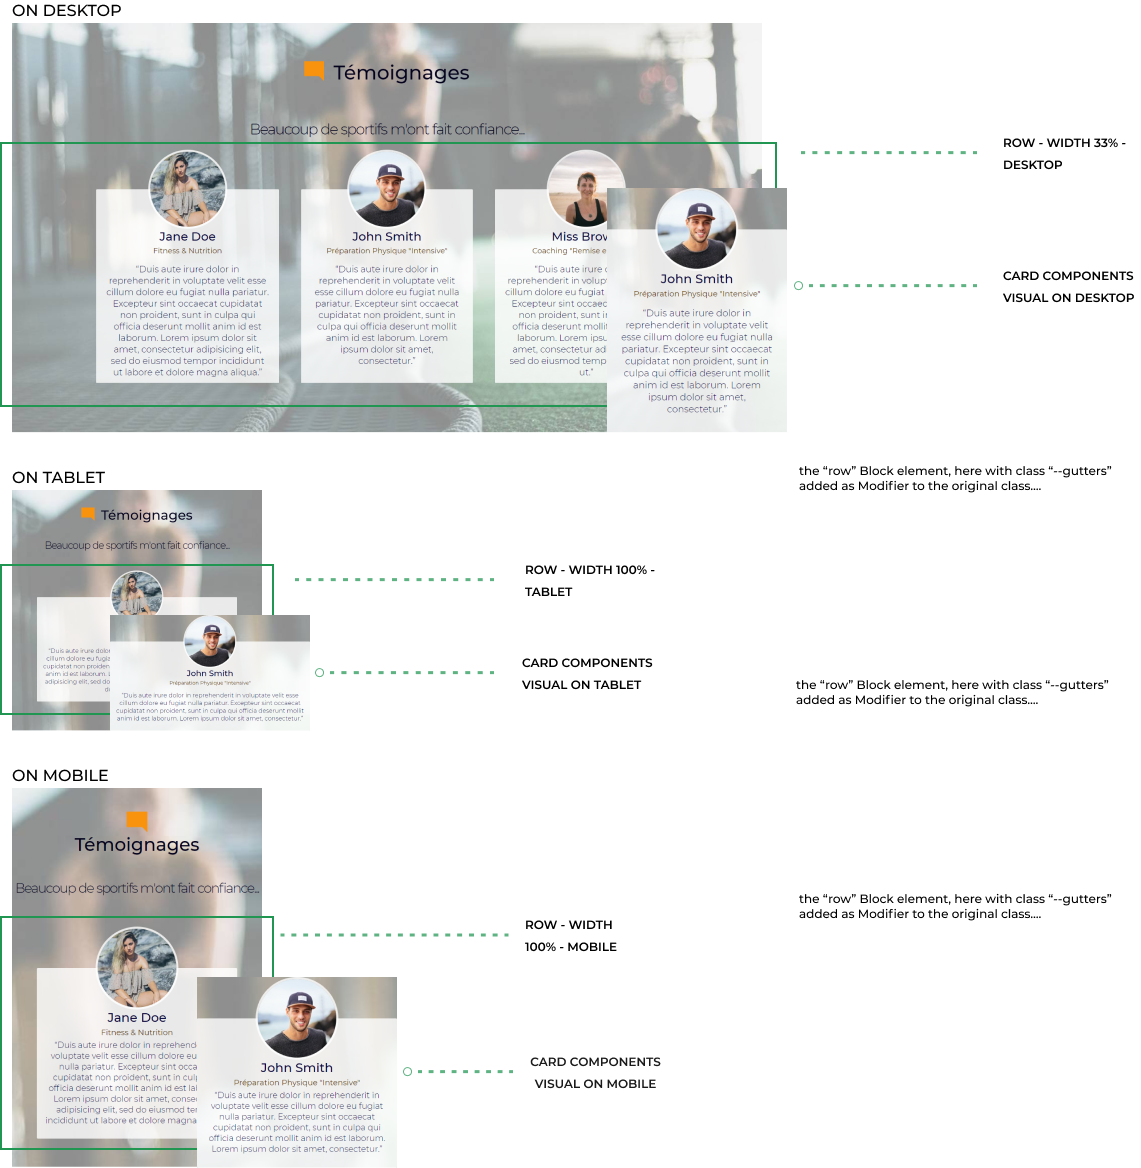
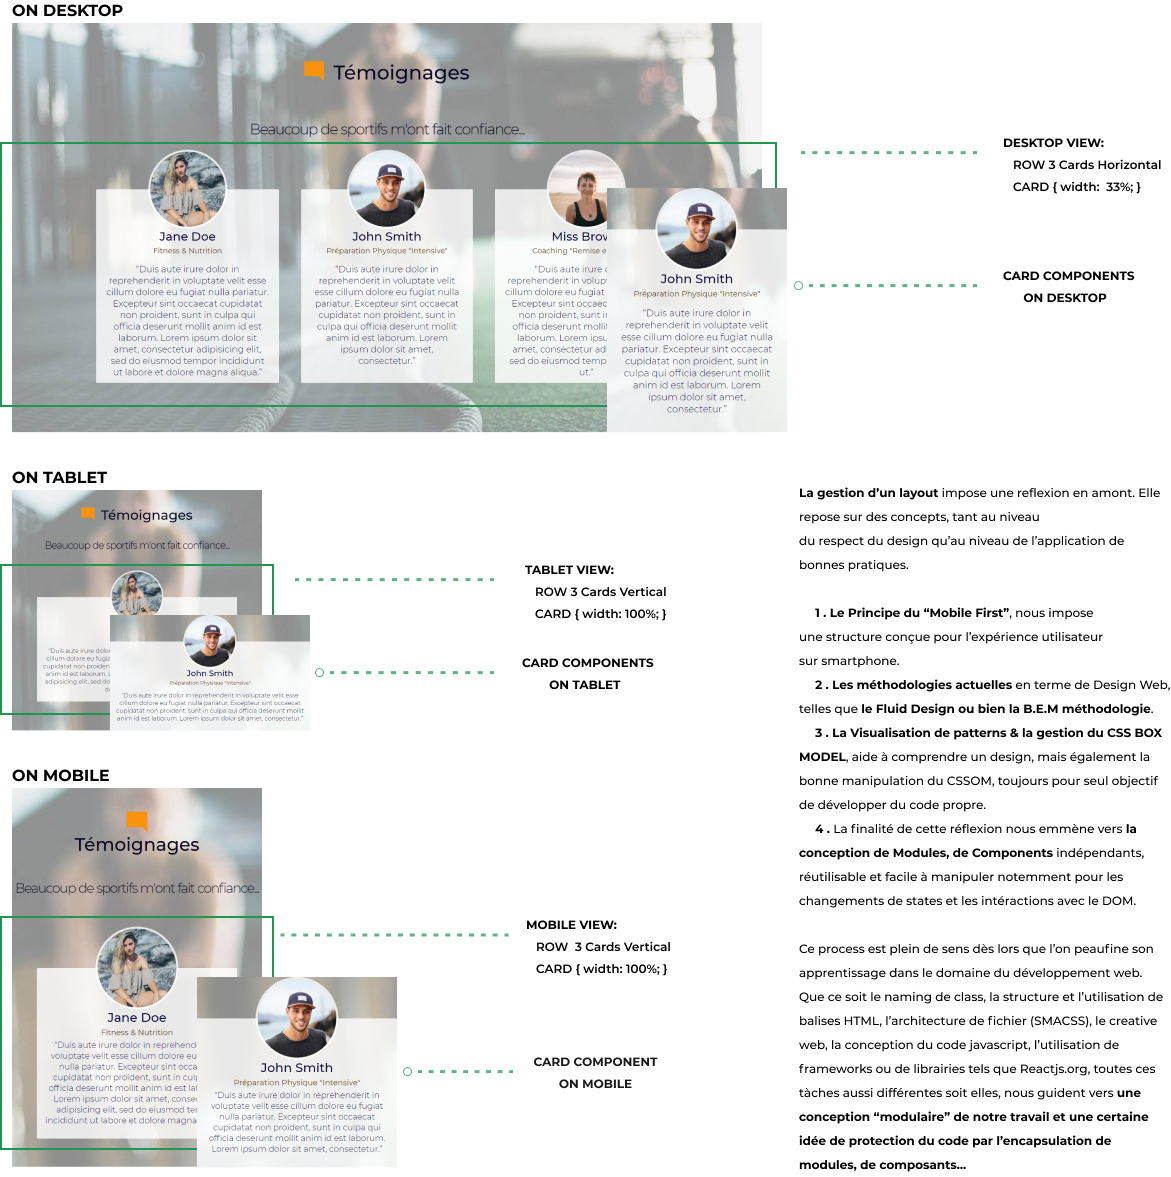
added some proj-1 content images, built the page explanation case studied with new sections

diff --git a/app/project-1.html b/app/project-1.html
@@ -113,10 +113,7 @@
 
               <div class="projIH-child1">
                 <h2 class="typo typo-200 typo-subheading">
-                  DBSH &#160;template est un projet d'étude, travaillé avec un client potentiel, un simple site vitrine
-                  servant de portfolio, de carte de visite pour coach sportif.
-                  Le Landing Page Optimization a été étudié
-                  pour une simple fonctionnalité: une fenêtre ouverte sur le Web.
+                  Ce projet d'étude a lié la conception du Design, la communication client, un travail simple, propre et "scalable", un workflow automatisé.
                 </h2>
               </div>
 
@@ -147,7 +144,7 @@
 
             <!--  proj Intro Img-->
             <div class="projII">
-              <img src="assets/img/project1/proj1-style-guide.jpg" alt="mockups with website s basics styles">
+              <img src="assets/img/project1/fulll-width-layout-dark-img.png" alt="#">
             </div>
 
           </section><!--   end of introduce project  -->
@@ -166,25 +163,24 @@
             <div class="projPH">
               <h6 class="typo typo-500 typo-muted">Problème</h6>
               <h4 class="typo typo-200 typo-subheading">
-                Lorem ipsum dolor sit amet consectetur adipisicing elit. A provident placeat, ab ullam obcaecati facilis
-                quas corrupti ratione alias eos repellat doloremque doloribus fugiat, saepe odio fugit quidem labore et
-                ad
-                culpa.
+                Devant la difficulté de formation en France, l'approche de développement web reste très sommaire. Il a été, sur ce projet, un réel défi de produire seul usant d'un workflow automatisé, de concepts UI/UX modernes et de prendre en main des outils & plugins offrant ainsi une approche très professionnelle du métier de développeur web.
               </h4>
             </div>
 
             <div class="projPT u-pt-md">
               <p class="typo typo-300 typo-txt3 u-py">
-                Lorem ipsum dolor sit amet consectetur adipisicing elit. Laudantium amet nulla fugit dicta, voluptatum
-                quo facilis doloribus eaque ab tempore explicabo voluptatibus cupiditate sunt nemo incidunt quis qui
-                fuga, ad velit. Aut repudiandae quod voluptatibus.
+                La première approche du "web development" est assez simple, l'intégration de ses problématiques est tout autre. Le métier de développeur nous impose une reflexion en profondeur sur les différentes problématiques que l'on pourrait rencontrer mais également l'apprentissage de concepts fondamentaux par l'expérience...
+                Ce projet expose la démarche frontend, tentant ainsi d'aborder le travail en amont avec le client et les équipes "Design" jusque plus tard vers le backend et les équipes "Dev Ops".
               </p>
 
               <p class="typo typo-300 typo-txt3 u-py">
-                Lorem ipsum dolor sit amet consectetur, adipisicing elit. Esse ullam minus animi? Quos exercitationem
-                quod itaque ut natus nemo dolorum consectetur reprehenderit rerum quisquam! Porro laborum quas officia
-                eveniet deserunt fugiat? Iste nihil possimus nostrum eos ipsa? Commodi quos animi voluptates nobis
-                necessitatibus praesentium unde dignissimos? Totam et itaque esse?
+                Seul sur le projet, la réflexion d'une basique charte graphique s'est vue très enrichissante, m'accompagnant vers les concepts de "Design System", d'Atomic Design, l'utilisation de Figma... Une certaine appétence pour le Design m'a pousser à aller chercher plus loin, m'aidant ainsi à pouvoir aujourd'hui, comprendre les problématiques des équpes travaillant en amont, des utilisateurs et celles des développeurs.
+              </p>
+
+              <p class="typo typo-300 typo-txt3 u-py">
+                Lorem ipsum dolor sit amet consectetur adipisicing elit. Iste officia repellat, nostrum sunt itaque odio
+                ullam modi quasi officiis veritatis velit eius, dolore earum illum voluptatem illo. Ducimus aliquam
+                consectetur atque perferendis accusamus beatae adipisci.
               </p>
 
               <p class="typo typo-300 typo-txt3 u-py">
@@ -194,30 +190,6 @@
               </p>
             </div>
 
-            <div class="projPI flx-rowOnSM u-py-lg">
-              <div class="flx-col projPI-child1">
-                <div class=" flx-alI">
-                  <img src="assets/img/project1/proj1-build-img1.png" alt="javascript's file on webpackconfig.js">
-                </div>
-                <p class="typo typo-txt">
-                  <strong>Before &#8212; </strong>Lorem ipsum dolor sit amet, consectetur adipisicing elit. Quam magni
-                  voluptatem corrupti quis aliquid nostrum maxime animi, iure nobis aperiam exercitationem, numquam qui
-                  illo officiis?
-                </p>
-              </div>
-              <div class="flx-col projPI-child2">
-                <div class=" flx-alI">
-                  <img src="assets/img/project1/proj1-build-img2.png"
-                    alt="screen on folder created after javascript build process">
-                </div>
-                <p class="typo typo-txt">
-                  <strong>After &#8212; </strong>Lorem ipsum dolor sit amet consectetur adipisicing elit. Veniam
-                  eligendi quae eveniet ut sapiente rerum esse eos vitae placeat consequuntur, mollitia enim dolorum!
-                  Iste, beatae.
-                </p>
-              </div>
-            </div>
-
           </section><!--   end of project problem  -->
 
         </div>
@@ -225,21 +197,34 @@
 
 
 
-      <!--  PROJECT DESIGN BEM-->
+      <!--  PROJECT DESIGN  -->
       <div class="u-bgLight">
         <div class="u-container u-pt-md">
 
-          <!--  section Project Benefits  -->
+          <!--  Section Project Benefits  -->
           <section class="proj-benefits">
-            <div class="flx-col">
 
-              <!--   project why head section  -->
-              <h4 class="projWH typo typo-200 typo-subheading">
-                Why do we actually really need a complex automated workflow ?
-              </h4
-              >
+            <!--  proj Intro Head-->
+            <div class="projIH flx-rowOnSM">
+
+              <div class="projIH-child1">
+                <h2 class="typo typo-200 typo-subheading">
+                  Le Développeur Frontend est impacté par une certaine contradiction ne lui imposant pas le travail sur le Design mais avec les équipes de Web designer. Il reste une approche censée que de comprendre ces problématiques et de pouvoir y répondre...
+                </h2>
+              </div>
             </div>
+
             
+            <!--  proj Intro Img-->
+            <div class="projII">
+              <img src="assets/img/project1/proj1-style-guide.jpg" alt="#">
+            </div>
+
+            <!--   project benefits head section  -->
+            <h4 class="typo typo-200 typo-subheading u-pt-md">
+              Comment l'approche du design peut impacter l'ensemble d'un projet web ?
+            </h4>
+
             <!--  proj Intro Img-->
             <div class="projII">
               <img src="assets/img/project1/full-width-bem-demo-img.png" alt="#">
@@ -252,6 +237,103 @@
 
 
       
+
+
+
+      <!--  PROJECT BLOCK ELEMENT MODIFIER -->
+      <div class="u-bgLight">
+        <div class="u-container u-pt-md">
+
+          <!--  section Project Benefits  -->
+          <section class="proj-benefits">
+
+            <!--  project benefits heading  -->
+            <h4 class="typo typo-200 typo-subheading">
+              Depuis la "B.E.M &#160; Methodology" vers l' Atomic Design
+            </h4>
+            <!--  project benefits text  -->
+            <p class="typo typo-300 typo-txt3 u-pt-md">
+              Le "Naming" de classes CSS, la conception des patterns, la visualisation de Blocks, d'Elements, la différenciation avec les Modifiers.
+              Cette méthodologie m'a clairement aidé à mettre du sens à mes projets, que ce soit par la suite, pour l'organisation de mon architecture de fichiers, pour la conception de Modules Javascript, ou bien la création de "React Components"...
+            </p>
+
+
+          </section><!--   end of project benefits -->
+
+
+
+            
+            <div class="projPI flx-col u-pt-md">
+              <div class="flx-col projPI-child1">
+                <div>
+                  <img src="assets/img/project1/proj1-fullW-atomic-img1.png" alt="#">
+                </div>
+              </div>
+
+              <div class="flx-col projPI-child2 u-pt-sm">
+                <div>
+                  <img src="assets/img/project1/proj1-fullW-atomic-img2.png" alt="#">
+                </div>                 
+              </div>
+            </div>
+
+        </div>
+      </div>
+
+
+       <!--  PROJECT JAVASCRIPT  -->
+       <div class="u-bgLight">
+        <div class="u-container u-pt-md">
+
+          <!--  Section Project Benefits  -->
+          <section class="proj-benefits">
+
+            <!--  proj Intro Head-->
+            <div class="projIH flx-rowOnSM">
+
+              <div class="projIH-child1">
+                <h2 class="typo typo-200 typo-subheading">
+                  Suivant toujours ce concept "d'encapsulation", j'ai pris le parti dans ce projet de développer les scripts en suivant le paradigme "OOP" même si je suis aujourd'hui plus orienté vers le "Functional Programming", il faut avouer que javascript reste un language orienté "Objet". 
+                </h2>
+              </div>
+            </div>
+
+            
+              
+            <div class="projPI flx-rowOnSM u-py-lg">
+              <div class="flx-col projPI-child1">
+                <div class=" flx-alI">
+                  <img src="assets/img/project1/Main App.png" alt="#">
+                </div>
+                <p class="typo typo-txt">
+                  <strong>Main App.js &#8212; </strong>Lorem ipsum dolor sit amet, consectetur adipisicing elit. Quam magni
+                  voluptatem corrupti quis aliquid nostrum maxime animi, iure nobis aperiam exercitationem, numquam qui
+                  illo officiis?
+                </p>
+              </div>
+              <div class="flx-col projPI-child2">
+                <div class=" flx-alI">
+                  <img src="assets/img/project1/Class MobileMenu.png"
+                    alt="#">
+                </div>
+                <p class="typo typo-txt">
+                  <strong>MobileMenu.js &#8212; </strong>Lorem ipsum dolor sit amet consectetur adipisicing elit. Veniam
+                  eligendi quae eveniet ut sapiente rerum esse eos vitae placeat consequuntur, mollitia enim dolorum!
+                  Iste, beatae.
+                </p>
+              </div>
+            </div>
+
+  
+          </section><!--   end of project benefits -->
+
+        </div>
+      </div>
+
+
+
+
+            
       <!--  PROJECT AUTOMATION WORKFLOW-->
       <div class="u-bgLight">
         <div class="u-container u-pt-md">
@@ -303,7 +385,6 @@
 
         </div>
       </div>
-
 
 
 
